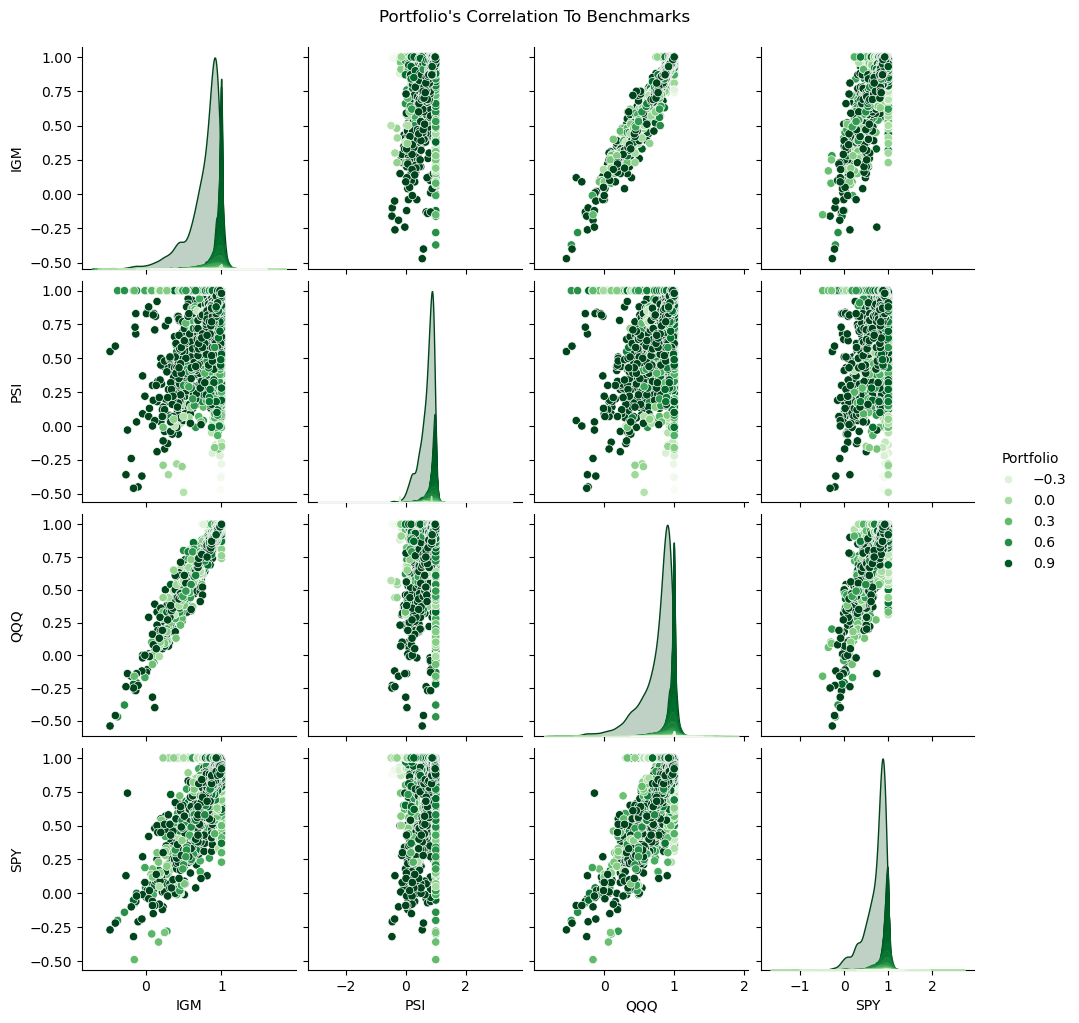
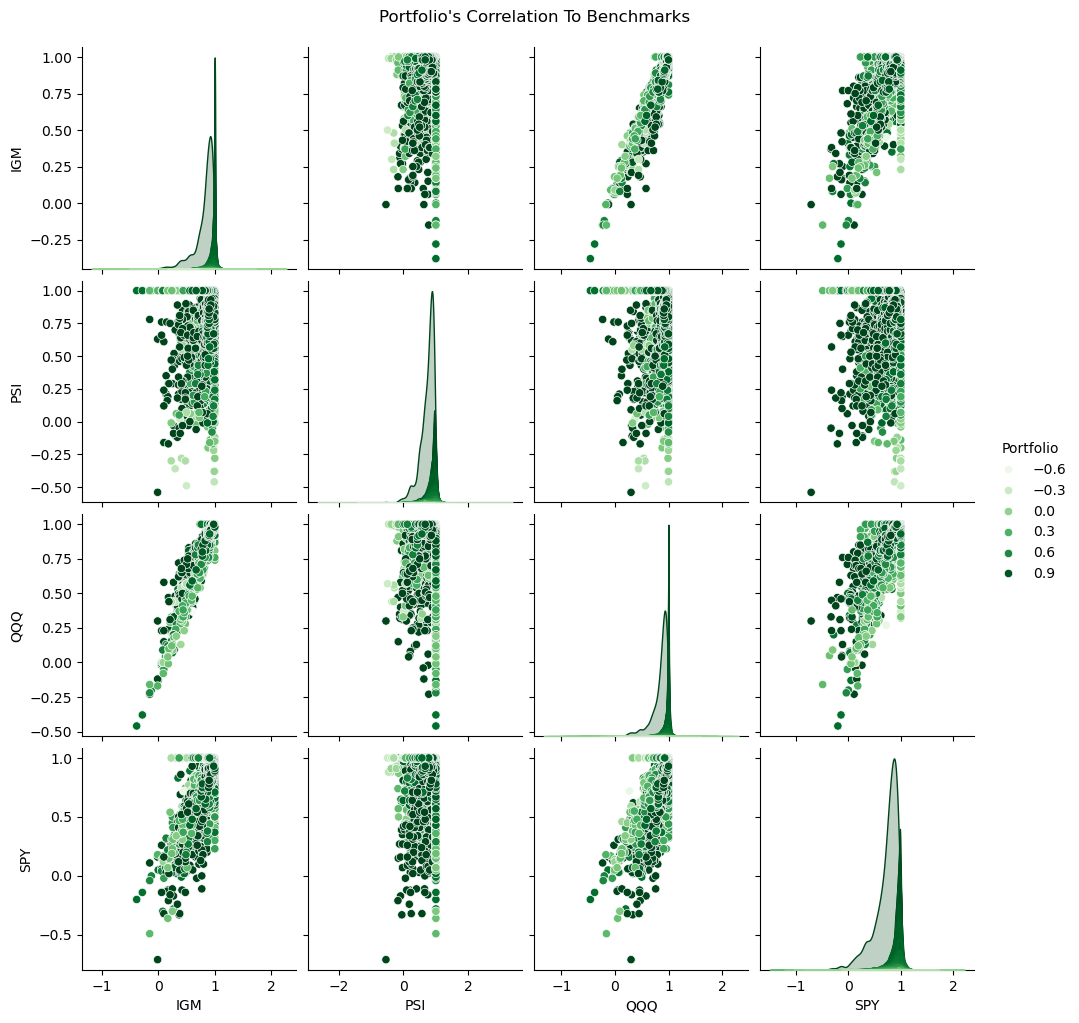
Code

diff --git a/website/templates/portfolio.html b/website/templates/portfolio.html
@@ -29,8 +29,8 @@
    <meta name="author" content="Aboze Brain">
    <meta http-equiv="content-type" content="text/html; charset=utf-8"/>
  </head>
- 
- <center style="background-color: #1d9371">
+
+ <center style="background-color: #135e45">
  <body>
        <div>
          <h1 style="color: white">Canary Quant</h1>
@@ -40,9 +40,9 @@
                 <p style="color: white">Return on Investment = {{ roi }}%</p>
                 <p style="color: white">Compound Annual Growth Rate = {{ annual_return }}%</p>
                 <p style="color: white">Sharpe Ratio = {{ sharpe_ratio }}</p>
-                <p style="color: white">Average Beta = {{ ave_beta }}</p>
+                <p style="color: white">Average Beta = {{ avg_beta }}</p>
                 <p style="color: white">Average Standard Deviation = {{ std }}</p>
-                <p style="color: white">Tracking Error =  {{ tracking_err }}</p>
+                <p style="color: white">Tracking Error =  {{ tracking_err }}%</p>
           </ul>
       </div>
        </div>
@@ -61,4 +61,6 @@
       </div>
  </body>
 </center>
+ 
+
 </html>

diff --git a/website/static/css/style.css b/website/static/css/style.css
@@ -31,3 +31,5 @@ button {
     border-radius: 30px;
 }
 
+
+

diff --git a/website/alpaca.py b/website/alpaca.py
@@ -1,28 +1,16 @@
-from dotenv import load_dotenv
 import os
 import pandas as pd
 import alpaca_trade_api as tradeapi
 import numpy as np
-from datetime import date,timedelta
+from datetime import date,timedelta, datetime
     
 class Alpaca:
     def __init__(self) -> None:
-        # load environment variables
-        load_dotenv()
 
          # Set Alpaca API key and secret
         ALPACA_BASE_URL = 'https://paper-api.alpaca.markets'
-        ALPACA_API_KEY = os.environ.get('ALPACA_API_KEY')
-        ALPACA_SECRET_KEY = os.environ.get('ALPACA_SECRET_KEY')
-
-        # Create the Alpaca API object
-        self.api = tradeapi.REST(key_id=ALPACA_API_KEY, secret_key=ALPACA_SECRET_KEY, base_url=ALPACA_BASE_URL, api_version='v2')
-        
-
-         # Set Alpaca API key and secret
-        ALPACA_BASE_URL = 'https://paper-api.alpaca.markets'
-        ALPACA_API_KEY = 'PK306FA7SFOSMY9LBUZ4'
-        ALPACA_SECRET_KEY = 'oNujbWMi3ZLrZuVggRN1DnZBLs38EJO00cwyOgsE'
+        ALPACA_API_KEY = 'PKY1WQKOQS3LU0FD379C'
+        ALPACA_SECRET_KEY = 'cA7lkkOK9rNV6yThD48TdqJhMVgbDY80fiYWR5Mr'
 
         # Create the Alpaca API object
         self.api = tradeapi.REST(key_id=ALPACA_API_KEY, secret_key=ALPACA_SECRET_KEY, base_url=ALPACA_BASE_URL, api_version='v2')
@@ -34,8 +22,6 @@ class Alpaca:
         days_ago = pd.Timestamp(date.today() - timedelta(days = days_from_today), tz="America/New_York").isoformat()
         today = pd.Timestamp(date.today().isoformat(), tz="America/New_York").isoformat()
         
-        start_date = pd.Timestamp("2018-01-01", tz="America/New_York").isoformat()
-        end_date = pd.Timestamp("2023-01-01", tz="America/New_York").isoformat()
         # Set timeframe to "1Day" for Alpaca API
         timeframe = "1Day"
 

diff --git a/website/CanaryFinancialCalculations.py b/website/CanaryFinancialCalculations.py
@@ -1,5 +1,4 @@
 import alpaca_trade_api as tradeapi
-from dotenv import load_dotenv
 import pandas as pd
 import numpy as np
 import seaborn as sns
@@ -12,13 +11,11 @@ import os
 class CanaryFinancialCalculations:
 
     def __init__(self, user_input_tickers, start_date, end_date, initial_investment) -> None:
-        # load environment variables
-        load_dotenv()
 
          # Set Alpaca API key and secret
         ALPACA_BASE_URL = 'https://paper-api.alpaca.markets'
-        ALPACA_API_KEY = os.environ.get('ALPACA_API_KEY')
-        ALPACA_SECRET_KEY = os.environ.get('ALPACA_SECRET_KEY')
+        ALPACA_API_KEY = 'PKY1WQKOQS3LU0FD379C'
+        ALPACA_SECRET_KEY = 'cA7lkkOK9rNV6yThD48TdqJhMVgbDY80fiYWR5Mr'
 
         # Create the Alpaca API object
         self.api = tradeapi.REST(key_id=ALPACA_API_KEY, secret_key=ALPACA_SECRET_KEY, base_url=ALPACA_BASE_URL, api_version='v2')
@@ -39,9 +36,6 @@ class CanaryFinancialCalculations:
         self.benchmark_chg = self.benchmark_pct_chg(self.benchmark_df)
 
         self.comparing_portfolios_pct_chg = self.pct_change_comparison(self.user_portfolio_pct_chg, self.benchmark_chg)
-
-
-
 
     def portfolio_df(self, tickers, start, end, timeframe):
         df = self.api.get_bars(

diff --git a/website/app.py b/website/app.py
@@ -38,7 +38,7 @@ def hello_world():
        # calculate average beta
        user_covariance = CanaryFinancialCalculations.covariance(canary.comparing_portfolios_pct_chg, "Portfolio", "SPY")
        user_variance = CanaryFinancialCalculations.variance(canary.comparing_portfolios_pct_chg, "SPY")
-       user_avg_beta =  round(CanaryFinancialCalculations.beta(user_covariance, user_variance).mean(),2)
+       user_avg_beta =  round(CanaryFinancialCalculations.beta(user_covariance, user_variance).mean(),2)[0]
 
        # Calculate ave std
        user_std = round(CanaryFinancialCalculations.standard_deviation(canary.user_portfolio_pct_chg).mean(),2)[0]

diff --git a/website/utilities.py b/website/utilities.py
@@ -1,7 +1,6 @@
 import numpy as np
 import pandas as pd
 
-
 def calculate_percentage(val, total):
    """Calculates the percentage of a value over a total"""
    percent = np.round((np.divide(val, total) * 100), 2)
